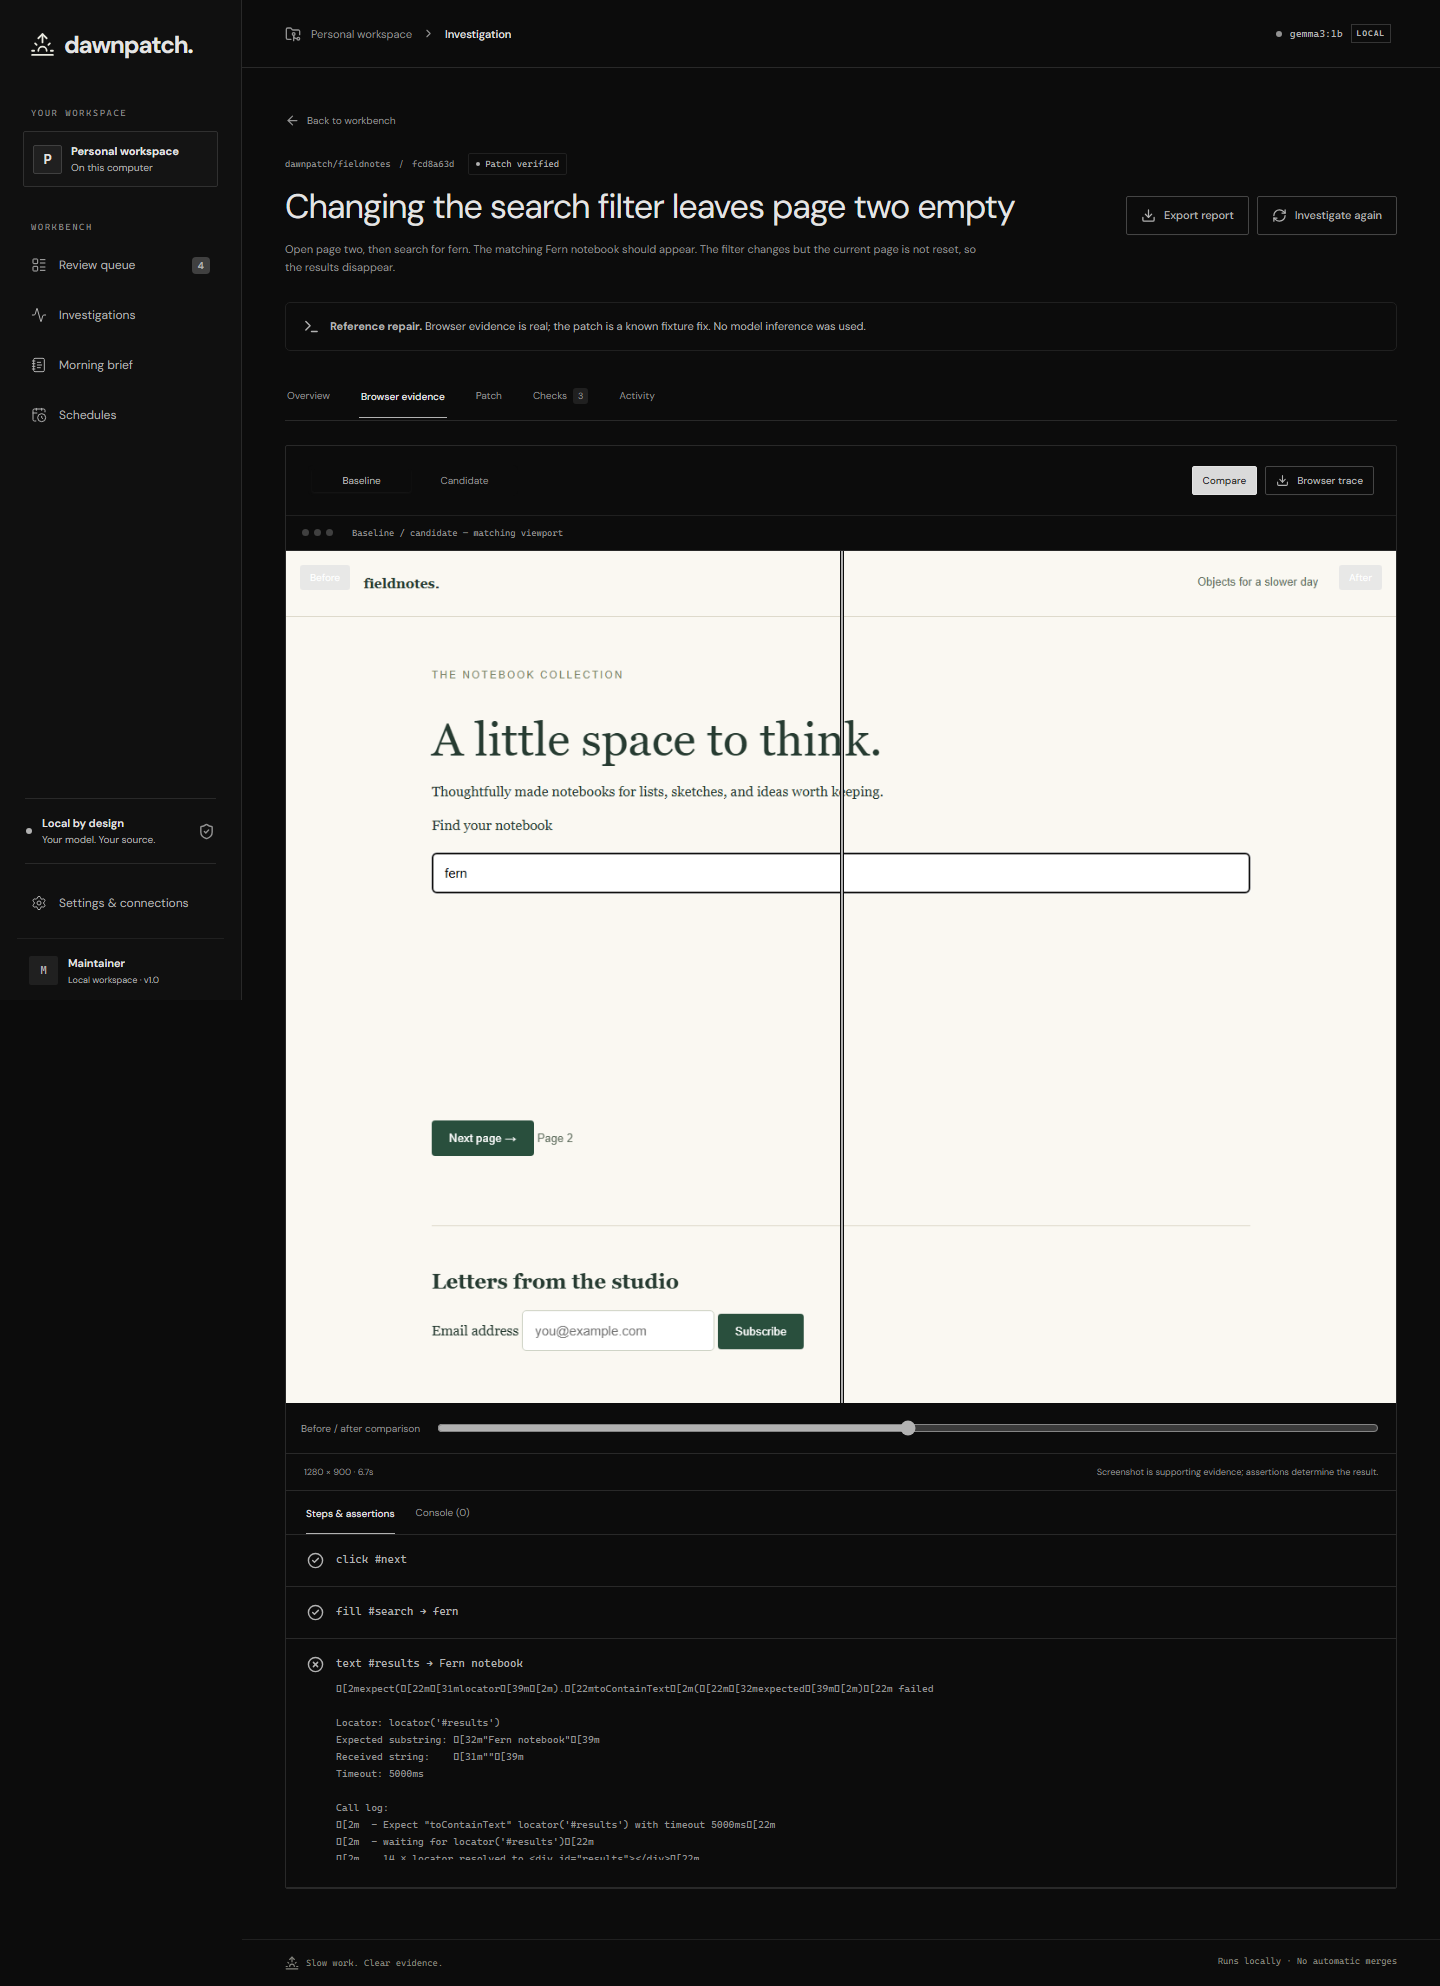
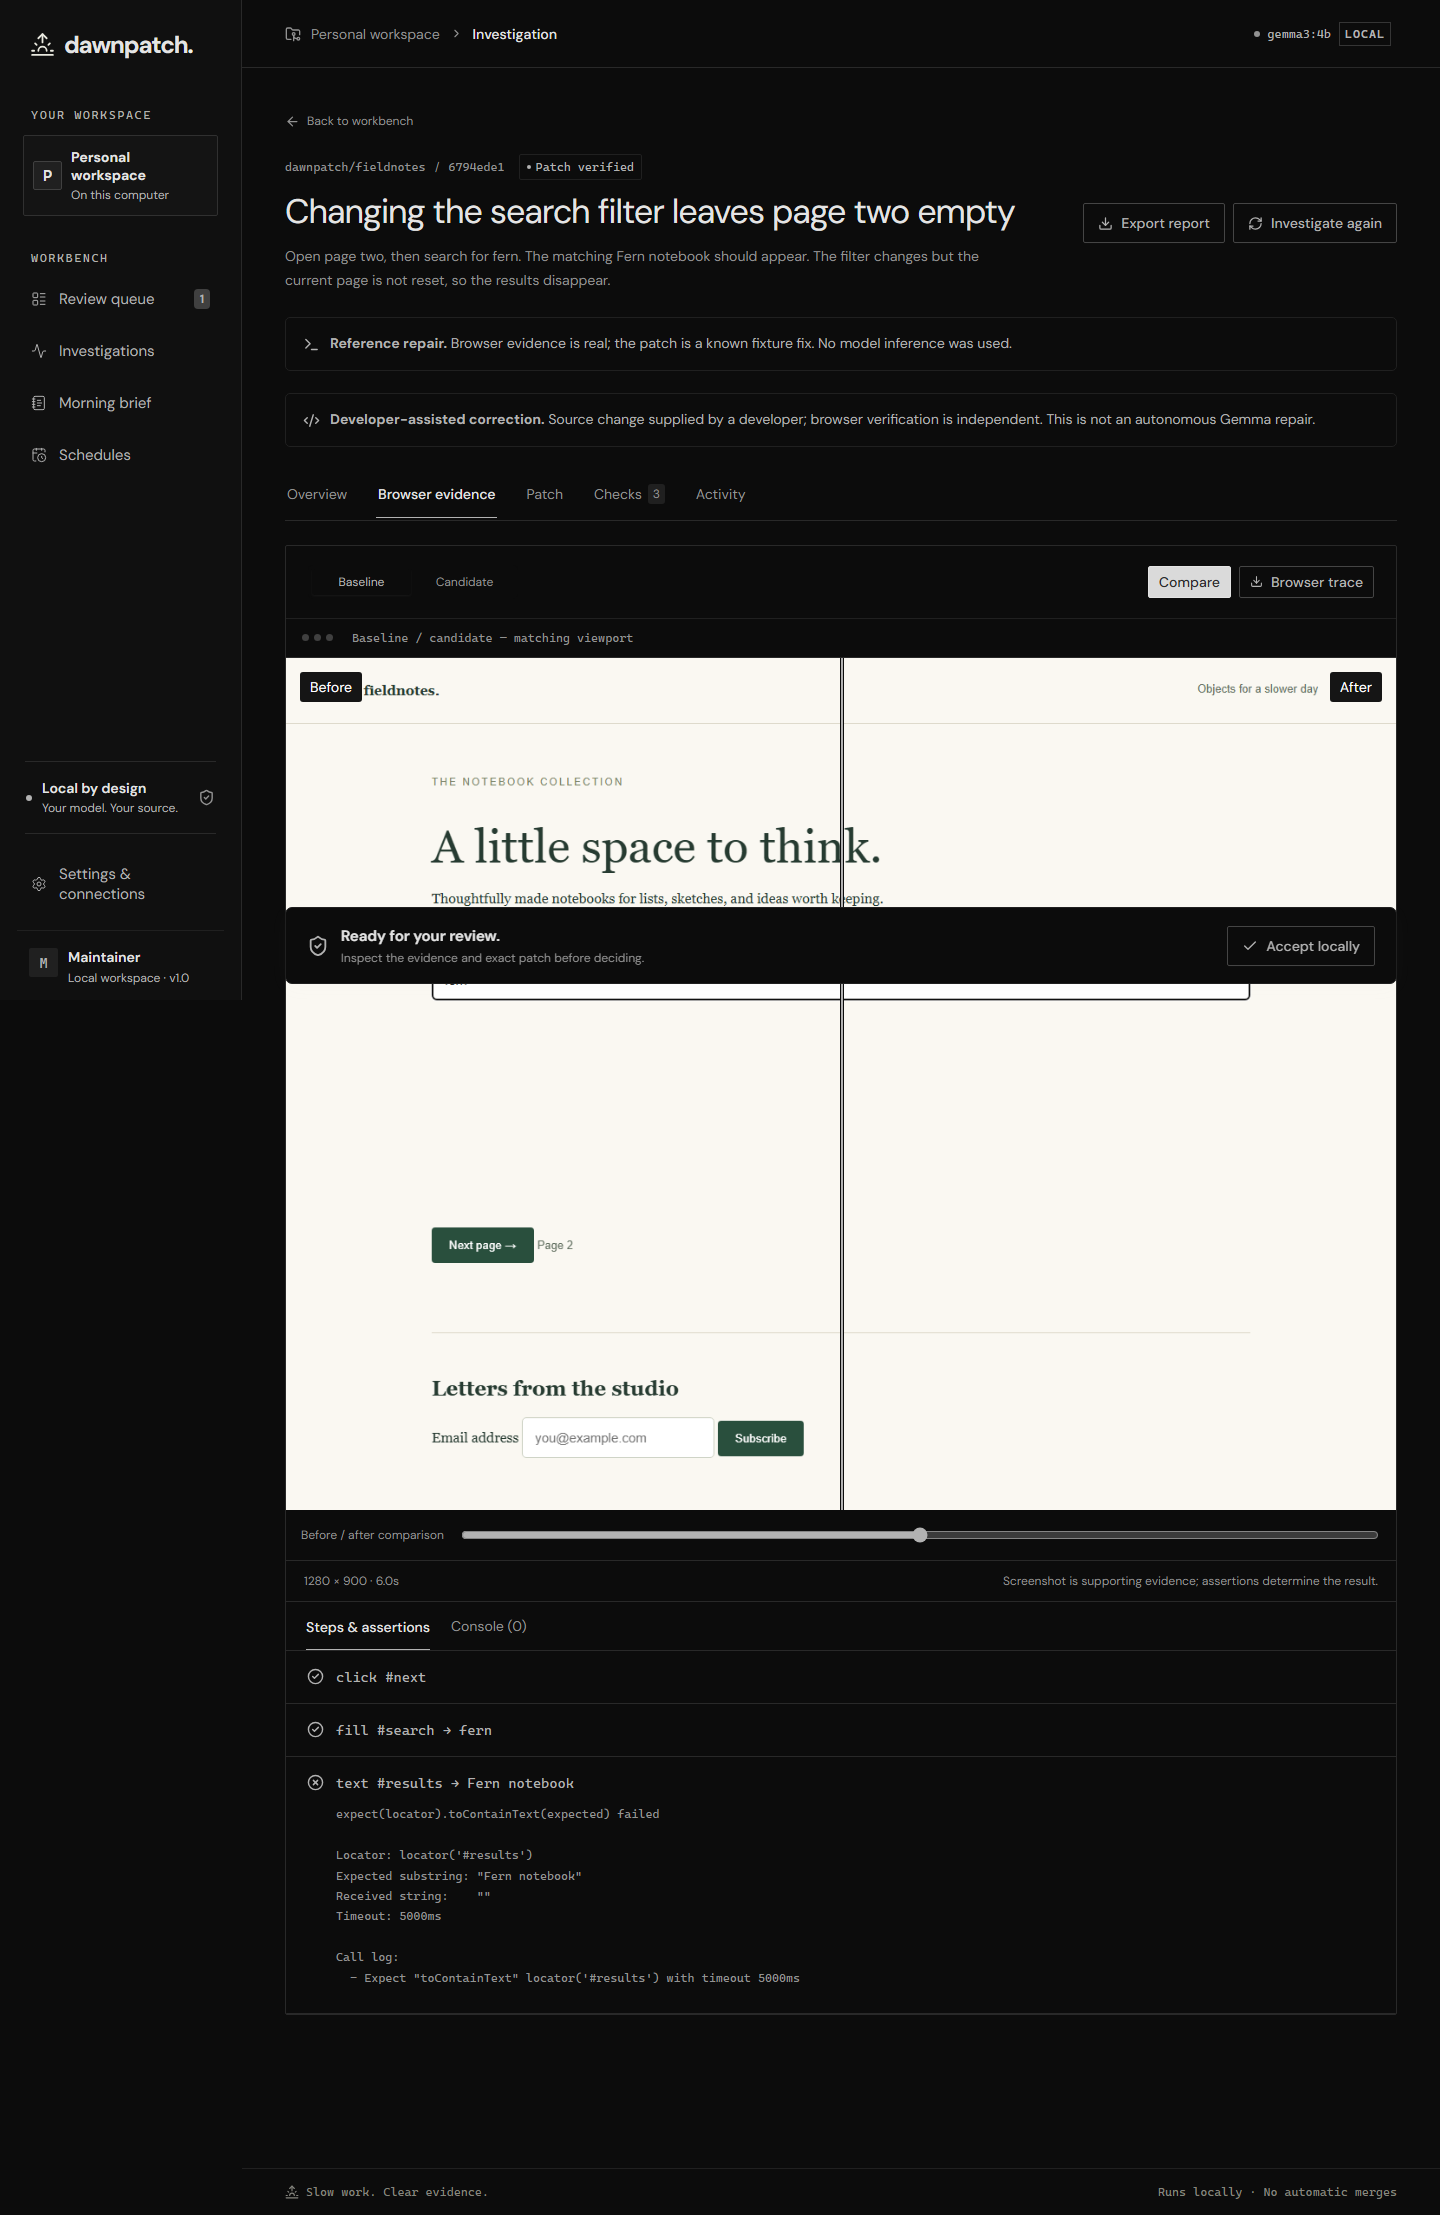
test: cover desktop recovery correction replay and readable controls

diff --git a/tests/workbench.spec.ts b/tests/workbench.spec.ts
@@ -1,6 +1,21 @@
 import { test, expect } from "@playwright/test";
 import fs from "node:fs/promises";
 const headers = { "X-DawnPatch": "local-workbench" };
+
+test("a temporary API outage clears its message after polling recovers", async ({
+  page,
+}) => {
+  let disconnected = true;
+  await page.route("**/api/runs", (route) =>
+    disconnected ? route.abort("failed") : route.continue(),
+  );
+  await page.goto("/");
+  await expect(page.getByRole("alert")).toContainText(
+    "local server is unavailable",
+  );
+  disconnected = false;
+  await expect(page.getByRole("alert")).toHaveCount(0, { timeout: 10000 });
+});
 test("loopback API rejects cross-origin mutations and missing request guards", async ({
   request,
 }) => {
@@ -61,7 +76,55 @@ for (const fixture of ["pagination", "empty", "form"])
       ).status(),
     ).toBe(200);
   });
-test("desktop review, evidence compare, schedule and responsive layout", async ({
+test("reviewed corrections preserve provenance and must pass independent replay", async ({
+  request,
+}) => {
+  const cases = await (await request.get("/api/fixtures")).json();
+  const input = {
+    ...cases.find((item: any) => item.fixture === "pagination"),
+    engine: "fixture",
+  };
+  const created = await (
+    await request.post("/api/runs", { headers, data: input })
+  ).json();
+  let run: any;
+  await expect
+    .poll(
+      async () => {
+        run = await (await request.get(`/api/runs/${created.id}`)).json();
+        return run.status;
+      },
+      { timeout: 70000 },
+    )
+    .toBe("awaiting_review");
+  const correction = run.changes[0];
+  const unchanged = await request.post(`/api/runs/${run.id}/correction`, {
+    headers,
+    data: { ...correction, replace: correction.search },
+  });
+  expect(unchanged.status()).toBe(400);
+  const revised = await request.post(`/api/runs/${run.id}/correction`, {
+    headers,
+    data: correction,
+  });
+  expect(revised.status()).toBe(202);
+  expect((await revised.json()).repairOrigin).toBe("developer");
+  await expect
+    .poll(
+      async () => {
+        run = await (await request.get(`/api/runs/${created.id}`)).json();
+        return run.status;
+      },
+      { timeout: 70000 },
+    )
+    .toBe("awaiting_review");
+  expect(run.candidate.passed).toBe(true);
+  expect(run.diagnosis.limitations.join(" ")).toContain(
+    "not an autonomous Gemma repair",
+  );
+});
+
+test("desktop review, evidence compare, schedule and connections", async ({
   page,
   request,
 }) => {
@@ -70,6 +133,17 @@ test("desktop review, evidence compare, schedule and responsive layout", async (
   await expect(
     page.getByRole("heading", { name: "Maintenance overview." }),
   ).toBeVisible();
+  expect(
+    await page
+      .locator(".nav-item")
+      .first()
+      .evaluate((element) => parseFloat(getComputedStyle(element).fontSize)),
+  ).toBeGreaterThanOrEqual(14);
+  expect(
+    await page
+      .getByRole("button", { name: "Investigate issue", exact: true })
+      .evaluate((element) => parseFloat(getComputedStyle(element).fontSize)),
+  ).toBeGreaterThanOrEqual(14);
   await fs.mkdir("docs/screenshots", { recursive: true });
   await page.screenshot({
     path: "docs/screenshots/workbench-desktop.png",
@@ -108,18 +182,11 @@ test("desktop review, evidence compare, schedule and responsive layout", async (
   const schedules = await (await request.get("/api/schedules")).json();
   for (const s of schedules.filter((s: any) => s.name === "E2E schedule"))
     await request.delete(`/api/schedules/${s.id}`, { headers });
-  await page.setViewportSize({ width: 390, height: 844 });
-  await page.reload();
-  await page.screenshot({
-    path: "docs/screenshots/workbench-mobile.png",
-    fullPage: true,
-  });
   expect(
     await page.evaluate(
       () => document.documentElement.scrollWidth <= window.innerWidth,
     ),
   ).toBe(true);
-  await page.getByRole("button", { name: "Toggle navigation" }).click();
   await page
     .getByRole("button", { name: "Settings & connections", exact: true })
     .click();
